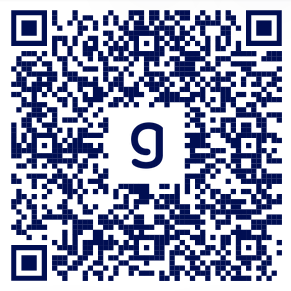
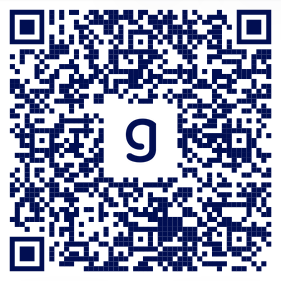
fixed wwww to www

diff --git a/ImplementationGuide/markdown/Anfrage-App.md b/ImplementationGuide/markdown/Anfrage-App.md
@@ -23,7 +23,7 @@ Im Sinne eines geführten Check-Ins in die Praxis können dem Patienten die aus 
 Für den Start des UseCases zum "Online Check-In" in der Praxis wird lediglich die KIM-Adresse benötigt, an welche die Praxis die Daten über den Patienten gesendet bekommen möchte. Der Aufbau des QR-Codes gestaltet sich daher sehr schlank. Basis ist eine `URL`, die als Landing-Page Hinweise geben kann, wenn Versicherte die jeweilige App ihrer Krankenversicherung noch nicht installiert haben. Ist sie installiert, kann sie beim Abscannen mit der Kamera-App durch das Betriebsystem (z.B. Android, iOS) direkt geöffnet werden.
 
 ```json
-  https://wwww.praxis-check-in.de?mail=<KIM-Adresse>
+  https://www.praxis-check-in.de?mail=<KIM-Adresse>
 ```
 
 - `mail` benennt die KIM-Adresse, an die die Praxis eine Ersatzbescheinigung bzw. "Online Check-In" gesendet haben möchte. Die Daten der Praxis werden dem Patienten zur Verifikation aus dem VZD über das Backend der App bereitgestellt.
@@ -37,8 +37,8 @@ Für den Start des UseCases zum "Online Check-In" in der Praxis wird lediglich d
 
 Im Folgenden ist ein Beispiel QR-Code für die KIM-Adresse (`URL-Safe` codiert) einer fiktiven Praxis _Dr. Baldgesund_ dargestellt. Dr. Baldgesund erhält die KIM-Adresse `praxis-dr-baldgesund@kim-dienstleister.kim.telematik` über die Beantragung eines Kontos bei einem KIM-Anbieter.
 
-<!--- generated at https://www.qr.io wegen Logo und Farbe --->
-<!--- https://wwww.praxis-check-in.de?mail=praxis-dr-baldgesund@kim-dienstleister.kim.telematik --->
+<!--- generated at https://www.qr.io wegen Logo und Farbe (#000e52) --->
+<!--- https://www.praxis-check-in.de?mail=praxis-dr-baldgesund@kim-dienstleister.kim.telematik --->
 {{render:ImplementationGuide-images-qr-sample}}
 
 Für die Generierung stehen verschiedene Dienste im Internet zur Verfügung, beispielsweise
@@ -62,7 +62,7 @@ Für die Generierung stehen verschiedene Dienste im Internet zur Verfügung, bei
 
 > **Hinweis**
 >
-> Die gematik veröffentlicht unter der URL https://wwww.praxis-check-in.de/.well-known/ eine Konfiguration
+> Die gematik veröffentlicht unter der URL https://www.praxis-check-in.de/.well-known/ eine Konfiguration
 > für Anroid ([assetlinks.json](https://developer.android.com/training/app-links/verify-android-applinks)) und iOS-Geräte([apple-app-site-association](https://developer.apple.com/library/archive/documentation/General/Conceptual/AppSearch/UniversalLinks.html)),
 > mittels der die App auf Smartphones von Versicherten beim Scannen des QR-Codes automatisch gestartet werden kann.
 > App-Hersteller können der gematik via [JIRA-Service Desk Anfrage](http://service.gematik.de/servicedesk/customer/portals) ihre benötigte Konfiguration als JSON-Datei bereitstellen.
